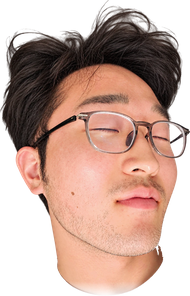
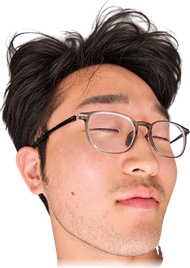
꿀잠범: the neck in the photo itself cut shorter (head back in its place)

diff --git a/index.html b/index.html
@@ -171,7 +171,7 @@ drunk:{name:'만취범',nick:'만취범',kit:{name:'MANCHWI',color:'#ff8a8a'},fa
 ajae:{name:'아재범',nick:'아재범',kit:{name:'AJAE',color:'#9fb4ff'},face:'ajae',faceFit:{h:55,b:27,cx:.47},ajae:true,ceremony:'아닌데? 아닌데? 🤨',split:true,stanceK:1.05,crouchK:.1,shirt:'#1f2c5e',sleeve:'#1f2c5e',longSleeve:true,backpack:true,collar:'#16204a',pants:'#2e2f35',hair:'#1a1410',skin:'#e7b896',skinShade:'#c99474'},
 // 꿀잠범, from the user's photo: asleep in a chair - messy black hair, clear-frame glasses, eyes shut, stubble, black
 // sweatshirt; grey sweatpants. Little z's float up from him; plays in a dream-like slow motion, but yawns on the serve return.
-sleepy:{name:'꿀잠범',nick:'꿀잠범',kit:{name:'KKULJAM',color:'#bfe3ff'},face:'sleepy',faceFit:{h:60,b:40,cx:.56},sleepy:true,ceremony:'Zzz… 음냐… 들어갔어? 😴',split:true,stanceK:1.05,crouchK:.08,shirt:'#17171b',sleeve:'#17171b',longSleeve:true,collar:'#0d0d10',pants:'#5d606a',hair:'#17110d',skin:'#e9bf9e',skinShade:'#cc9a7a'},
+sleepy:{name:'꿀잠범',nick:'꿀잠범',kit:{name:'KKULJAM',color:'#bfe3ff'},face:'sleepy',faceFit:{h:54,b:25,cx:.56},sleepy:true,ceremony:'Zzz… 음냐… 들어갔어? 😴',split:true,stanceK:1.05,crouchK:.08,shirt:'#17171b',sleeve:'#17171b',longSleeve:true,collar:'#0d0d10',pants:'#5d606a',hair:'#17110d',skin:'#e9bf9e',skinShade:'#cc9a7a'},
 plain:{name:'파란 선수',shirt:'#2f6fd6',sleeve:'#2f6fd6',pants:'#33404f',hair:'#3a2b22'},
 ai:{name:'빨간 선수',shirt:'#d6453d',sleeve:'#d6453d',pants:'#33404f',hair:'#3a2b22'}};
 // Shakehand blade and rubber. speed / spin multiply the shot, err is the extra chance a good stroke still misses (control).
